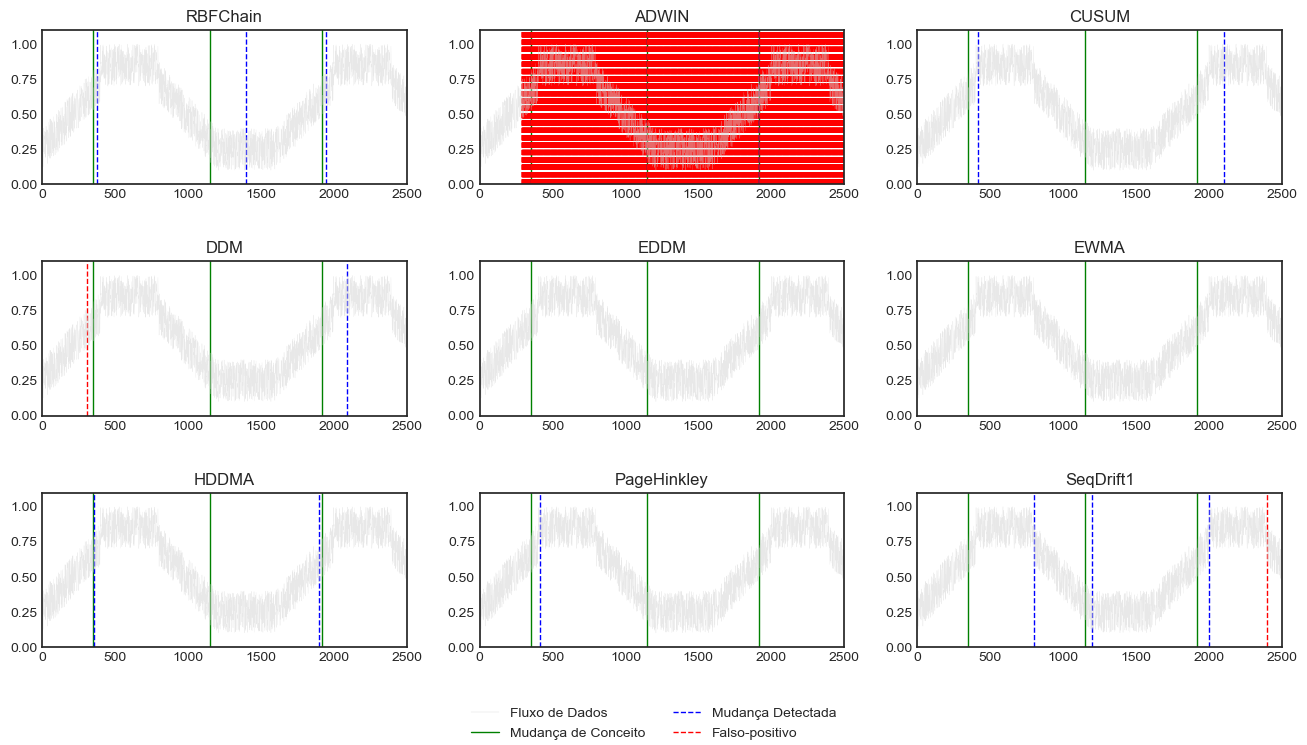
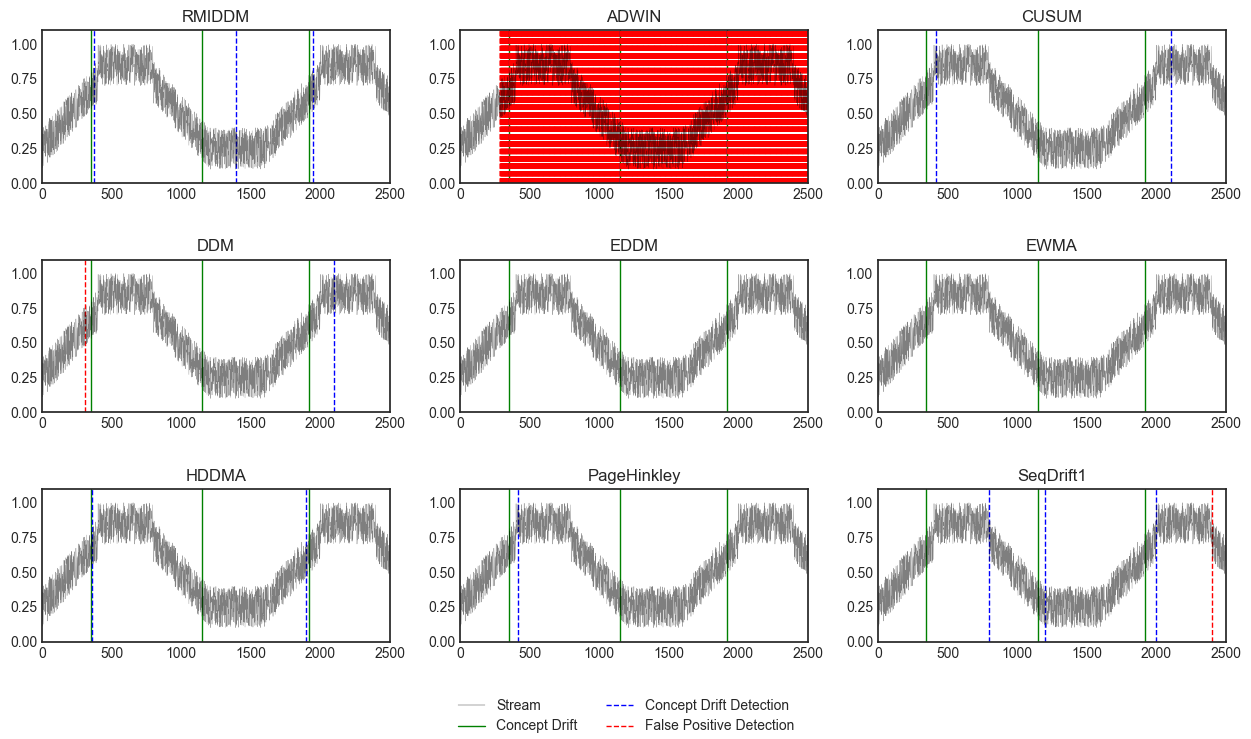
up

diff --git a/experiments/thesis_moa/plotar_multiplos_resultados_moa.py b/experiments/thesis_moa/plotar_multiplos_resultados_moa.py
@@ -4,8 +4,6 @@ import sys
 
 import matplotlib
 
-matplotlib.use("TKAgg", warn=False, force=True)
-
 from matplotlib.lines import Line2D
 import matplotlib.pyplot as plt
 plt.style.use('seaborn-white')
@@ -17,7 +15,7 @@ path = sys.argv[1]
 files = os.listdir(path)
 
 map_filename_graph_title = {
-    "rbfchain": "RBFChain",
+    "rbfchain": "RMIDDM",
     "adwin": "ADWIN",
     "cusum": "CUSUM",
     "ddm": "DDM",
@@ -28,10 +26,10 @@ map_filename_graph_title = {
     "seqdrift1": "SeqDrift1",
 }
 map_path_dataset = {
-    "nochange": "Sem Mudança",
-    "abrupt": "Mudança Abrupta",
-    "gradual": "Mudança Gradual",
-    "incremental": "Mudança Incremental",
+    "nochange": "No Change",
+    "abrupt": "Abrupt",
+    "gradual": "Gradual",
+    "incremental": "Incremental",
 }
 map_filename_subplot = {
     "rbfchain": 331,
@@ -101,22 +99,23 @@ for file in files:
                 pending_drift = False
             detected_changes += 1
 
-    ax.plot(range(0, len(data)), data, color="#D3D3D3", linestyle="-", linewidth=0.25, alpha=0.5)
+    ax.plot(range(0, len(data)), data, color="#000000", linestyle="-", linewidth=0.25, alpha=0.5)
 
 # Legend
 custom_legends = [
-    Line2D([0], [0], color="#D3D3D3", linestyle="-", linewidth=0.25),
+    Line2D([0], [0], color="#000000", linestyle="-", linewidth=0.25),
     Line2D([0], [0], color="g", ls="-", linewidth=1),
     Line2D([0], [0], color="b", ls="--", linewidth=1),
     Line2D([0], [0], color="r", ls="--", linewidth=1),
 ]
-fig.legend(
-    custom_legends,
-    ["Fluxo de Dados", "Mudança de Conceito", "Mudança Detectada", "Falso-positivo"],
-    ncol=2,
-    borderaxespad=0,
-    loc="lower center",
-)
+if dataset_key != "nochange":
+    fig.legend(
+        custom_legends,
+        ["Stream", "Concept Drift", "Concept Drift Detection", "False Positive Detection"],
+        ncol=2,
+        borderaxespad=0,
+        loc="lower center",
+    )
 
 # Showing and saving
 plt.show()

diff --git a/experiments/thesis_moa/plotar_todos_datasets.py b/experiments/thesis_moa/plotar_todos_datasets.py
@@ -4,8 +4,6 @@ import os.path
 import glob
 import matplotlib
 
-matplotlib.use("TKAgg", warn=False, force=True)
-
 import matplotlib.pyplot as plt
 plt.style.use('seaborn-white')
 
@@ -15,13 +13,13 @@ from scipy.io import arff
 
 class DatasetPlotter:
     _filename_settings_map = {
-        "abrupt.arff": {"name": "Mudança Abrupta", "subplot": {"row": 0, "col": 0}},
-        "gradual.arff": {"name": "Mudança Gradual", "subplot": {"row": 0, "col": 1}},
+        "abrupt.arff": {"name": "Abrupt", "subplot": {"row": 0, "col": 0}},
+        "gradual.arff": {"name": "Gradual", "subplot": {"row": 0, "col": 1}},
         "incremental.arff": {
-            "name": "Mudança Incremental",
+            "name": "Incremental",
             "subplot": {"row": 1, "col": 0},
         },
-        "nochange.arff": {"name": "Sem Mudança", "subplot": {"row": 1, "col": 1}},
+        "nochange.arff": {"name": "No Change", "subplot": {"row": 1, "col": 1}},
     }
 
     def __init__(self, path):
